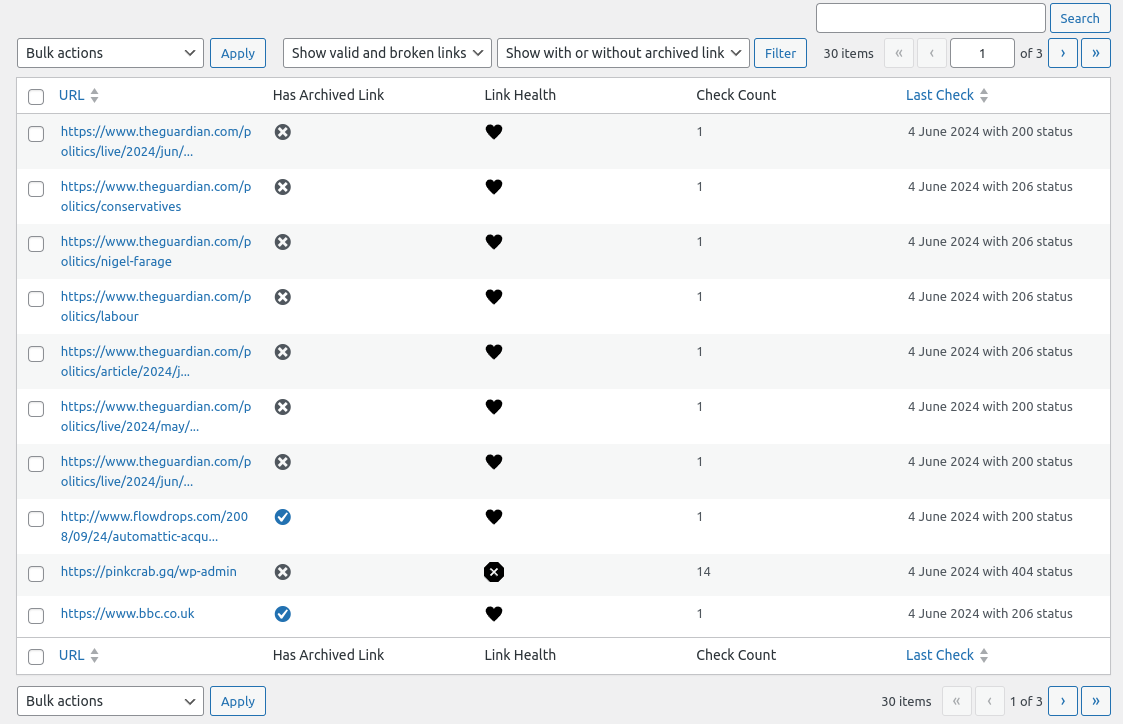
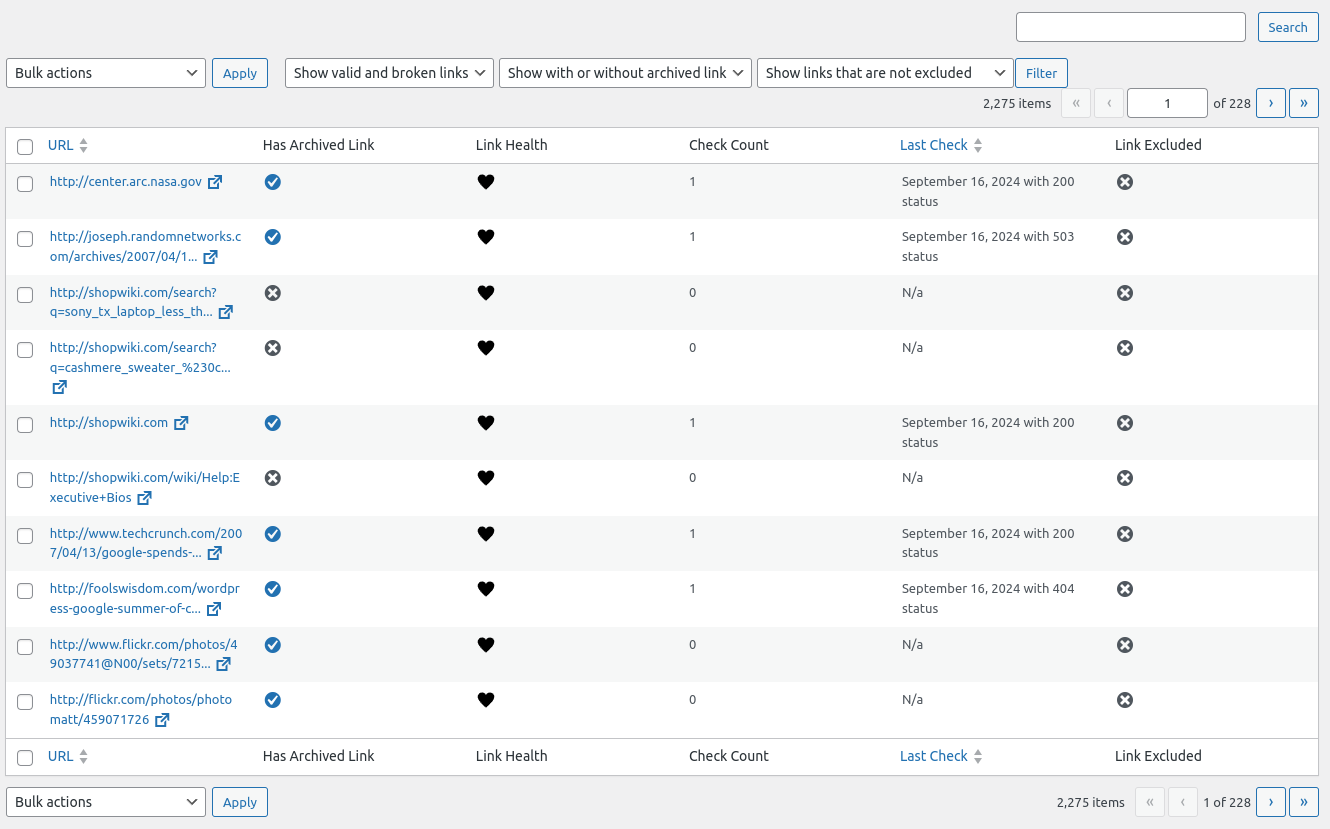
Added filter to allow filtering results which are excluded, docs updated to reflect all changes

diff --git a/src/Report/Report_Table.php b/src/Report/Report_Table.php
@@ -611,6 +611,25 @@ class Report_Table extends \WP_List_Table {
 			?>
 		</select>
 
+
+		<label for="wlf_is_excluded" class="screen-reader-text"><?php esc_html_e( 'Filter by excluded', 'wpcomsp_wayback_link_fixer' ); ?></label>
+		<select name="wlf_is_excluded" id="wlf_is_excluded">
+			<option value=""><?php esc_html_e( 'Show with or without excluded link', 'wpcomsp_wayback_link_fixer' ); ?></option>
+			<?php
+			$has_archive = array(
+				Link_Repository::LINK_IS_EXCLUDED  => __( 'Show links that are excluded', 'wpcomsp_wayback_link_fixer' ),
+				Link_Repository::LINK_NOT_EXCLUDED => __( 'Show links that are not excluded', 'wpcomsp_wayback_link_fixer' ),
+			);
+			foreach ( $has_archive as $archive => $label ) {
+				printf(
+					'<option value="%s"%s>%s</option>',
+					esc_attr( $archive ),
+					selected( $this->get_excluded_status_from_url(), $archive, false ),
+					esc_html( $label )
+				);
+			}
+			?>
+
 		<?php if ( array_key_exists( 'wlf_filtered_post_id', $_GET ) ) : // phpcs:ignore WordPress.Security.NonceVerification.Recommended, from url so no nonce possible ?>
 			<input type="hidden" name="wlf_filtered_post_id" value="<?php echo esc_attr( $_GET['wlf_filtered_post_id'] ); //phpcs:ignore WordPress.Security.NonceVerification.Recommended, from url so no nonce possible ?>" />
 		<?php endif; ?>
@@ -631,6 +650,17 @@ class Report_Table extends \WP_List_Table {
 		return array_key_exists( 'wlf_status', $_GET ) // phpcs:ignore WordPress.Security.NonceVerification.Recommended, from url so no nonce possible
 			? \sanitize_text_field( $_GET['wlf_status'] ) // phpcs:ignore WordPress.Security.NonceVerification.Recommended, from url so no nonce possible
 			: '';
+	}
+
+	/**
+	 * Get the excluded status filter values from url if set.
+	 *
+	 * @return string
+	 */
+	private function get_excluded_status_from_url(): ?string {
+		return array_key_exists( 'wlf_is_excluded', $_GET ) && '' !== $_GET['wlf_is_excluded'] // phpcs:ignore WordPress.Security.NonceVerification.Recommended, from url so no nonce possible
+			? \sanitize_text_field( $_GET['wlf_is_excluded'] ) // phpcs:ignore WordPress.Security.NonceVerification.Recommended, from url so no nonce possible
+			: null;
 	}
 
 	/**
@@ -663,7 +693,9 @@ class Report_Table extends \WP_List_Table {
 			$this->get_link_ids_from_url(),
 			array( $this->get_archived_status_from_url() ),
 			$this->get_sort_order_from_url(),
-			$this->get_search_term()
+			$this->get_search_term(),
+			null,
+			is_null( $this->get_excluded_status_from_url() ) ? null : boolval( $this->get_excluded_status_from_url() )
 		);
 	}
 
@@ -716,10 +748,10 @@ class Report_Table extends \WP_List_Table {
 	 */
 	protected function get_bulk_actions(): array {
 		return array(
-			'updated_snapshot' => __( 'Update Latest Snapshot', 'wpcomsp_wayback_link_fixer' ),
+			'updated_snapshot' => __( 'Update To Latest Snapshot', 'wpcomsp_wayback_link_fixer' ),
 			'new_snapshot'     => __( 'Create New Snapshot', 'wpcomsp_wayback_link_fixer' ),
-			'check'            => __( 'Check Link', 'wpcomsp_wayback_link_fixer' ),
-			'validate'         => __( 'Validate Link', 'wpcomsp_wayback_link_fixer' ),
+			'check'            => __( 'Check Link Status', 'wpcomsp_wayback_link_fixer' ),
+			'validate'         => __( 'Verify Link Allows Checking', 'wpcomsp_wayback_link_fixer' ),
 		);
 	}
 

diff --git a/src/Link/Link_Repository.php b/src/Link/Link_Repository.php
@@ -11,7 +11,6 @@ declare(strict_types=1);
 namespace WPCOMSpecialProjects\Wayback_Link_Fixer\Link;
 
 use WPCOMSpecialProjects\Wayback_Link_Fixer\Settings\Settings;
-use WPCOMSpecialProjects\Wayback_Link_Fixer\Processor\Post_Handler;
 use WPCOMSpecialProjects\Wayback_Link_Fixer\Event\Find_Or_Create_Snapshot_Event;
 
 /**
@@ -23,6 +22,8 @@ class Link_Repository {
 	public const LINK_STATUS_OK     = 0;
 	public const LINK_HAS_ARCHIVE   = 1;
 	public const LINK_NO_ARCHIVE    = 0;
+	public const LINK_IS_EXCLUDED   = 1;
+	public const LINK_NOT_EXCLUDED  = 0;
 	public const ORDER_DATE_ASC     = 'date_asc';
 	public const ORDER_DATE_DESC    = 'date_desc';
 	public const ORDER_ID_ASC       = 'id_asc';
@@ -332,7 +333,7 @@ class Link_Repository {
 
 		foreach ( $links as $link ) {
 			// If we are exluding excluded links and the link is excluded, skip.
-			if ( $exclude_excluded && $link->is_excluded() ) {
+			if ( apply_filters( 'wlf_exclude_link_from_post', ( $exclude_excluded && $link->is_excluded() ), $link, $post_id ) ) {
 				continue;
 			}
 

diff --git a/README.md b/README.md
@@ -86,29 +86,33 @@ Every link which is scanned, is added to the Link Table, this can be accessed un
 
 Here you can see the status of each link, the number of snapshots available, and the date of the last snapshot.
 
+
 ### URL
 
 The URL of the link, clicking it will show more details about the link.
 
 ### Has Archived Link
 
-![image](./_docs/check-icon.png)
+| | |
+|---|---|
+| ![image](./_docs/check-icon.png) | A checkmark indicates that we have a defined archived link for this URL. Clicking this will access the archived snapshot. |
+| ![image](./_docs/cross-icon.png) | A cross indicates that we do not have an archived link for this URL. |
 
- A checkmark indicates that we have a defined archived link for this URL. Clicking this will access the archived snapshot.
-
-![image](./_docs/cross-icon.png)
-
- A cross indicates that we do not have an archived link for this URL.
 
 ### Link Health
 
-![image](./_docs/heart-icon.png)
+| | |
+|---|---|
+| ![image](./_docs/heart-icon.png) | A heart implies that the link is still pointing to a valid target. |
+| ![image](./_docs/error-icon.png) | A broken heart indicates that the link is broken. |
 
- A heart implies that the link is still pointing to a valid target.
+### Is Excluded
 
-![image](./_docs/error-icon.png)
+| | |
+|---|---|
+| ![image](./_docs/check-icon.png) | A checkmark indicates that the link is excluded from being checked. |
+| ![image](./_docs/cross-icon.png) | A cross indicates that the link is not excluded from being checked. |
 
- A broken heart indicates that the link is broken.
 
 ### Check Count
 
@@ -124,7 +128,7 @@ Displays the date and time of the last check.
 
 You can select which links you wish to apply the bulk actions to by checking the box next to the URL.
 
-### Update Latest Snapshot
+### Update To Latest Snapshot
 
 This will update the link to the latest snapshot that exists on the Wayback Machine. *This will not create a new snapshot!*
 
@@ -132,9 +136,15 @@ This will update the link to the latest snapshot that exists on the Wayback Mach
 
 This will setup an event using the action scheduler to create a new snapshot of the link. If a new snapshot can be created, the links archived link will be updated to the new snapshot.
 
-### Check Link
+### Check Link Status
 
 This will trigger a check of the link to see if it is still active.
+
+### Verify Link Allows Checking
+
+This will verify if a link allows checking. If it does not, the link will be excluded from being checked.
+
+> Please note some urls do not allow bots to check the status of the link, this will often result in links being reported as a 403 even if still active and result in false positives.
 
 ## Link Report
 
@@ -351,6 +361,27 @@ add_filter( 'wlf_scan_existing_posts_interval', function( int $interval ): int {
 });
 ```
 
+#### `wlf_check_validator_status_interval`
+
+This is used to define how often we should check if the validator is still running. The default is 2 minutes.
+
+```php
+add_filter( 'wlf_check_validator_status_interval', function( int $interval ): int {
+	return 1 * \MINUTE_IN_SECONDS; // 1 minute
+});
+```
+
+#### `wlf_check_validator_status_attempts`
+
+This is used to define how many times we should attempt to check if the validator is still running. The default is 3.
+
+```php
+add_filter( 'wlf_check_validator_status_attempts', function( int $attempts ): int {
+	return 5;
+});
+```
+
+
 #### `wlf_is_valid_check`
 
 This filter is used when a url is checked and we are returning if the link is valid or not. The default is to check if the status code is in the `wlf_valid_http_status_codes` array.
@@ -366,6 +397,21 @@ add_filter( 'wlf_is_valid_check', function( bool $is_valid, array $check, Link $
 
 > The `$check` array contains the following keys: `status_code (string)`, `date (Y-m-d H:i:s)`.
 > For all public methods of the `Link` model, see the codebase (src/Link/Link.php)
+
+#### `wlf_exclude_link_from_post`
+
+This allows a link to be excluded from the list of links generated for a post. If a link is excluded, it will not be checked or have its link replaced when viewing the post.
+
+```php
+add_filter( 'wlf_exclude_link_from_post', function( bool $exclude, Link $link, int $post_id ): bool {
+	if ( strpos( $link->get_href(), 'example.com' ) !== false ) {
+	  return true;
+	}
+	return $exclude;
+});
+```
+
+> Please note if a link is already being excluded, this is likely due to the site blocking any uptime checking bots and allowing these links to be checked will likely result in false positives.
 
 #### `wlf_link_checker_url_params`
 
@@ -440,6 +486,7 @@ add_filter( 'wlf_create_snapshot_url', function( string $url ): string {
 	return 'https://my-custom-snapshot-creator.com';
 });
 ```
+
 
 ### Internet Archive / Wayback Link Fixer Instances.
 